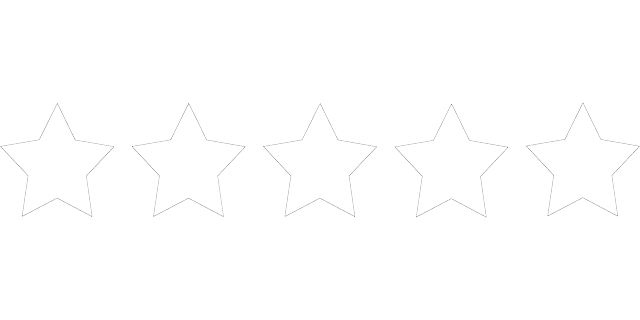
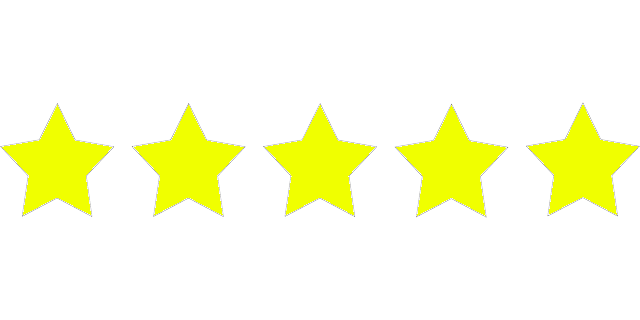
Página deperfil casi acabada
Estrellas cambiadas de color,  añadidos gradientes, y centrado el contenido

diff --git a/style.css b/style.css
@@ -158,7 +158,10 @@ nav.breadCrumb [aria-current="page"] {
 #seccionMessenger{
     grid-column: 2 / 3;
     grid-row: 1 / 3;
-    justify-items: center;;
+    display: flex;
+    justify-content: flex-end;
+    align-items: center;
+    background: linear-gradient(180deg, #E7815F 0%, #FBD7B1 100%);
 }
 
 #headerPerfil {
@@ -168,17 +171,35 @@ nav.breadCrumb [aria-current="page"] {
 
 #datosPerfilUsuario{
     display: flex;
-    justify-content: space-around;
+    justify-content: flex-start;
+    align-items: center;
+    background: linear-gradient(180deg, #02C3BD 0%, rgba(2, 195, 189, 0) 100%);
+}
+
+#descripcionUsuario{
+    margin-left: auto;
+    margin-right: 50px;
+    width: 50%;
+}
+
+#datosPerfilUsuario > p {
+    display: flex;
+    align-items: center;
 }
 
 #picturePerfilUsuario{
+    margin-left: 50px;
     display: flex;
     flex-direction: column;
+    align-content: center;
+    justify-content: center;
+    width: 150px;
 }
 
 #fotoPerfilUsuario{
     width: 100px;
     height: 100px;
+    border: solid 1px var(--principalFive);
 }
 
 #valoracionPerfilUsuario{
@@ -224,7 +245,7 @@ footer {
     text-indent: 10px;
 }
 
-                                        /************** barra Navigacion ***************/
+                                        /************** barra Navegacion ***************/
 #barraNavegacion{
     height: 50px; 
     width: 100%;
@@ -266,7 +287,7 @@ footer {
     overflow: hidden;
     margin-right: 0;
     height: 450px;
-    width: 400px;
+    width: 350px;
     display: flex;
     flex-direction: column;
     border: solid 1px var(--secondaryDark);

diff --git a/perfil.html b/perfil.html
@@ -21,14 +21,12 @@
     <main id="mainPerfil">
         <section id="datosPerfilUsuario">
             <picture id="picturePerfilUsuario">
-                <img id="fotoPerfilUsuario" src="./images/fotoPerfil.jpg" alt="">
+                <img id="fotoPerfilUsuario" class="bordeRedondeado" src="./images/fotoPerfil.jpg" alt="">
                 <img id="valoracionPerfilUsuario" src="./images/stars-24183_640.png" alt="">
-                <span class="textoGrande"> 
-                    Nombre Usuario
-                </span>
+                <span class="textoGrande">Nombre Usuario</span>
             </picture>
             <p class="textoPequeño">Datos de Usuario <br> Nombre: <br> Apellidos: <br> Edad: <br> Localización:</p>
-            <p class="textoPequeño">Sobre mí... <br> Descripción</p>
+            <p id="descripcionUsuario" class="textoPequeño">Sobre mí... <br> Lorem ipsum dolor sit amet, consectetur adipiscing elit, sed do eiusmod tempor incididunt ut labore et dolore magna aliqua. Ut enim ad minim veniam, quis nostrud exercitation ullamco</p>
         </section>
         <section id="gestionIntercambios">
 
